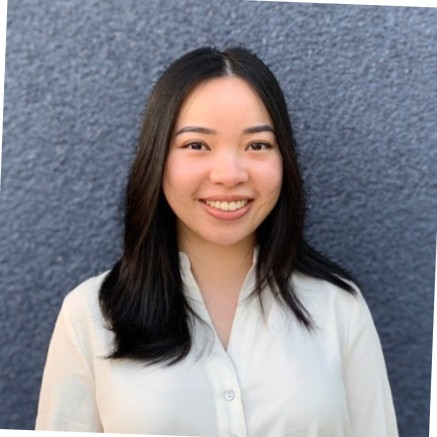
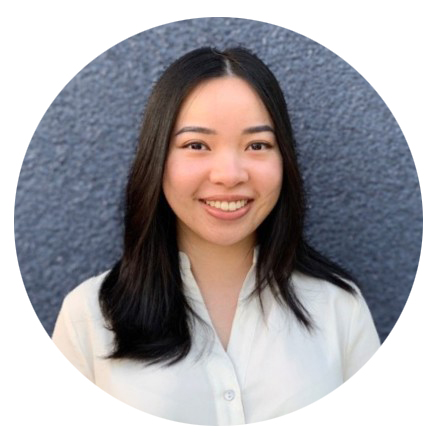
about page

Changed region(s): [[0.0, 0.0, 1.0, 1.0]]

diff --git a/pages/about.js b/pages/about.js
@@ -1,13 +1,40 @@
 import data from "../data/about.json";
+import NavBar from "../comps/NavBar/NavBar";
+import styles from "../styles/Home.module.css";
 
 export default function About() {
   return (
     <div>
-      <h1>About Us</h1>
+      <title>Dishcovery</title>
+      <meta name="description" content="Generated by create next app" />
+      <meta name="viewport" content="width=device-width, initial-scale=1" />
+      <link rel="icon" href="/dc_logo.png" />
 
-      <img className="cherylphoto" src="cherylphoto.jpg"></img>
-      <img className="gianphoto" src="gianphoto.jpg"></img>
-      <button>Back</button>
+
+      <img className="DClogo" src="dc_logo.svg"></img>
+
+
+      <NavBar />
+      <div className="about">
+
+        <h1>About Us</h1>
+        <a href="/"><button className="Backbutton">Back</button></a>
+
+        <div className="aboutcard">
+          <img className="cherylphoto" src="cherylphoto.png"></img>
+          <h1>{data.cheryl.name}</h1>
+          <h2>{data.cheryl.role}</h2>
+          <p>{data.cheryl.description}</p>
+        </div>
+
+        <div className="aboutcard">
+          <img className="gianphoto" src="gianphoto.png"></img>
+          <h1>{data.gian.name}</h1>
+          <h2>{data.gian.role}</h2>
+          <p>{data.gian.description}</p>
+        </div>
+
+      </div>
     </div>
   );
 }

diff --git a/styles/globals.css b/styles/globals.css
@@ -83,6 +83,8 @@
 }
 
 
+
+
 h2 {
   color: #613c10;
   font-weight: 500;
@@ -127,14 +129,44 @@ h2 {
   text-overflow: ellipsis;
 }
 
+.Backbutton{
+border-radius: 10px;
+background-color: #ffffff;
+padding: 10px;
+}
 
+.about {
+  margin-top: 50px;
+  margin-left: 100px;
+  padding-bottom: 500px;
+
+}
+
+.aboutcard {
+  padding-left: 125px;
+  padding-right: 125px;
+  padding-bottom: 70px;
+}
+
+.cherylphoto {
+  width: 300px;
+  height: auto;
+  }
+
+.gianphoto {
+    width: 300px;
+    height: auto;
+  }
 
 
 .DClogo {
   margin-top: 10vh;
+  padding-bottom: 4vh;
   display: flex;
   align-items: center;
-  width: 390px;
+  margin-left: auto;
+  margin-right: auto;
+  width: 500px;
   height: auto;
 }
 
@@ -144,7 +176,7 @@ h2 {
   justify-items: center;
   flex-direction: row; */
   width: 100%;
-  padding: 10px 50px;
+  padding: 10px 100px;
   background-color: white;
 }
 

diff --git a/pages/feelinglucky.js b/pages/feelinglucky.js
@@ -62,6 +62,11 @@ export default function FeelingLucky() {
 
   return (
     <>
+      <title>Dishcovery</title>
+      <meta name="description" content="Generated by create next app" />
+      <meta name="viewport" content="width=device-width, initial-scale=1" />
+      <link rel="icon" href="/dc_logo.png" />
+      <img className="DClogo" src="dc_logo.svg"></img>
       <NavBar />
       <Recipe
         h1text={recipe.strMeal}

diff --git a/pages/index.js b/pages/index.js
@@ -45,7 +45,7 @@ export default function Home() {
       <title>Dishcovery</title>
       <meta name="description" content="Generated by create next app" />
       <meta name="viewport" content="width=device-width, initial-scale=1" />
-      <link rel="icon" href="/dc_logo.svg" />
+      <link rel="icon" href="/dc_logo.png" />
 
       <img className="DClogo" src="dc_logo.svg"></img>
       <Navbar />
